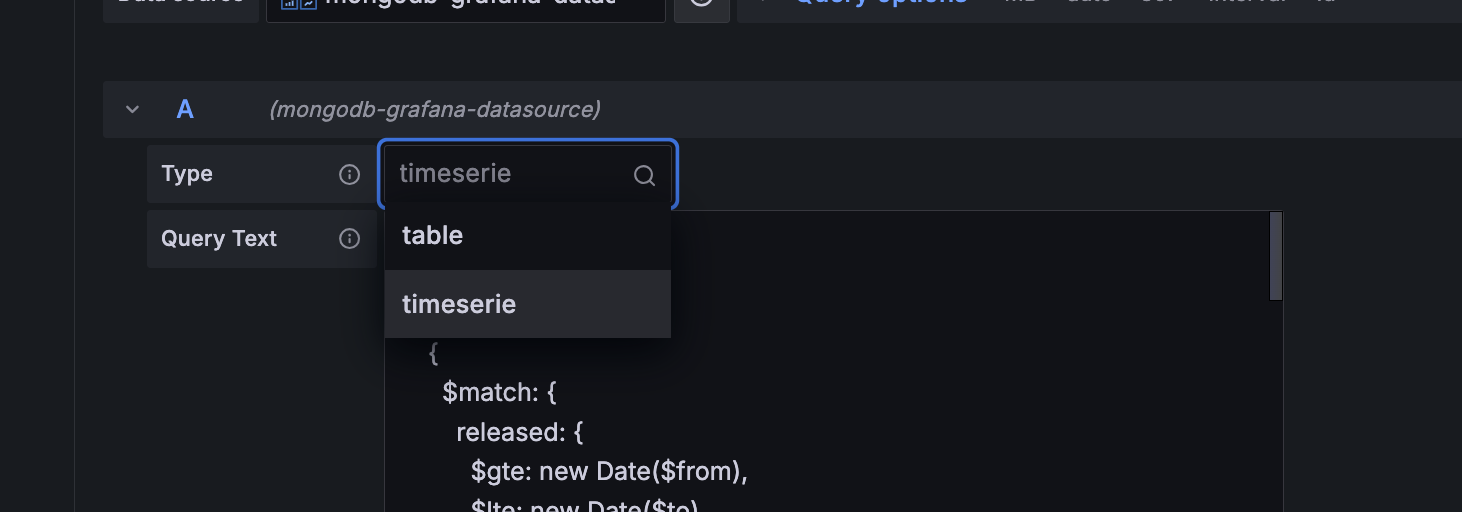
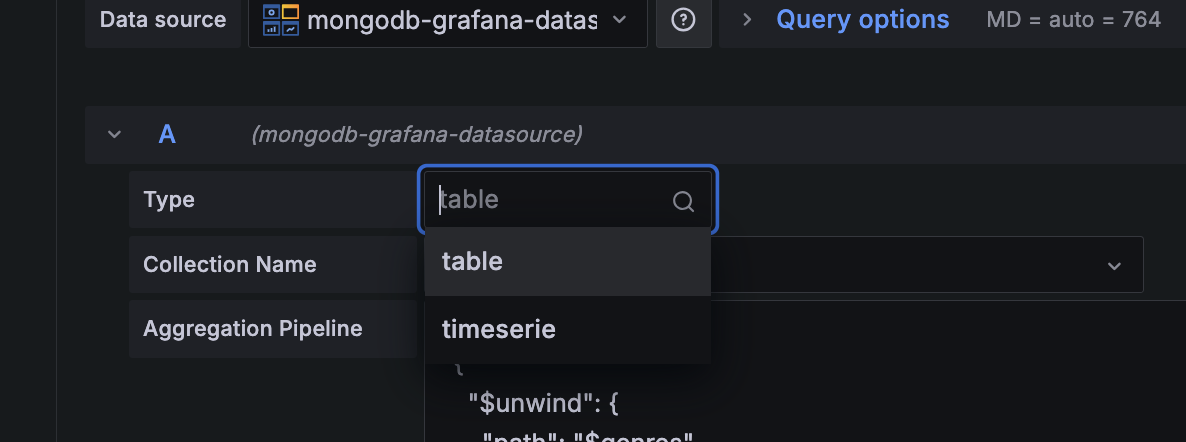
better query editor

diff --git a/frontend/src/components/QueryEditor.tsx b/frontend/src/components/QueryEditor.tsx
@@ -16,9 +16,7 @@ import { lastValueFrom } from 'rxjs';
 
 type Props = QueryEditorProps<DataSource, MyQuery, MyDataSourceOptions>;
 
-const queryHint = `{
-  collection: "collection name",
-  aggregations: [
+const queryHint = `[
     {
       string: "string",
       date: new Date(),
@@ -28,9 +26,11 @@ const queryHint = `{
       expandable1: $from,
       expandable2: $to,
       expandable3: $intervalMs
-    },
-  ],
-}`;
+    }
+    {
+      ...more stages
+    }
+  ]`;
 
 export function QueryEditor(props: Props) {
   const {
@@ -56,19 +56,24 @@ export function QueryEditor(props: Props) {
             },
             data: JSON.stringify(db),
           });
-          const collections = await lastValueFrom(response);
-          setCollections(collections.data);
+          const values = await lastValueFrom(response);
+          const collections = values.data;
+          if (collections.length > 0) {
+            onChange({ ...query, collection: collections[0] });
+          }
+          setCollections(collections);
           setSpinner(false);
         } catch (err: any) {
           setErrorMsg(err?.message ?? err);
         }
       })();
     }
+    // eslint-disable-next-line
   }, [db, baseUrl]);
 
   const queryUI = (
     <Stack gap={0} direction="column">
-      <InlineField label="Type" labelWidth={16} tooltip="Not used yet">
+      <InlineField label="Type" labelWidth={20}>
         <Select
           width={20}
           options={[
@@ -79,7 +84,7 @@ export function QueryEditor(props: Props) {
           onChange={(sv) => onChange({ ...query, queryType: sv.value!! })}
         />
       </InlineField>
-      <InlineField label="Type" labelWidth={16} tooltip="Not used yet">
+      <InlineField label="Collection Name" labelWidth={20}>
         <Select
           width={50}
           options={collections.map((collection) => ({
@@ -90,7 +95,7 @@ export function QueryEditor(props: Props) {
           onChange={(sv) => onChange({ ...query, collection: sv.value!! })}
         />
       </InlineField>
-      <InlineField label="Query Text" labelWidth={16} tooltip="Not used yet">
+      <InlineField label="Aggregation Pipeline" labelWidth={20}>
         <TextArea
           style={{ width: 500, minHeight: 200 }}
           value={queryText ?? ''}

diff --git a/frontend/src/datasource.ts b/frontend/src/datasource.ts
@@ -50,10 +50,14 @@ export class DataSource extends DataSourceApi<MyQuery, MyDataSourceOptions> {
 
   async query(options: DataQueryRequest<MyQuery>): Promise<DataQueryResponse> {
     try {
+      const { targets } = options;
       const payload = {
         ...options,
+        targets: targets.map((target) => ({
+          ...target,
+          queryText: `{collection: "${target.collection}", aggregations: ${target.queryText}}`,
+        })),
         db: { ...this.db },
-        targets: options.targets.filter((target) => !!target.queryType),
       };
       const response = (await this.request('/query', payload)) as FetchResponse<
         TimeSeriesResponse[] | TableResponse[]

diff --git a/README.md b/README.md
@@ -26,20 +26,15 @@ there are two types of query the plugin supports, `table` or `timeserie`.
 <img src="./imgs/query-type.png" alt="frontend" style="width: 40%;" />
 
 ### query schema
+
+after the frontend collects a query, it sends data of the following schema to its backend
 ```javascript
   {
     collection: "collection name",
     aggregations: [
       {
-        string: "string",
-        date: new Date(),
-        id: new ObjectId("573a1393f29313caabcdc50e"),
-        bool: true,
-        number: 12345.4,
-        expandable1: $from,
-        expandable2: $to,
-        expandable3: $intervalMs
-      },
+        pipeline stage (s)
+      }
     ],
   }
 ```
@@ -48,11 +43,22 @@ there are two types of query the plugin supports, `table` or `timeserie`.
 
 a query is a `javascript` object.
 
-the `collection` field specifies the name of the collection to perform an aggregation.
+the `Collection Name` field specifies the name of the collection to perform an aggregation.
 
-the `aggregations` field can have multiple aggregation steps. the supported data types are listed above.
+the `Aggregation Pipeline` field can have multiple aggregation steps. if you're familiar with `MongoDB Compass`, you can contruct your aggregations in the tool, then copy/paste the aggregration's `Node.js` export to the field - it's just simple as that. the supported data types are listed below.
 
-`timeserie` in detail
+```
+  string: "string",
+  date: new Date(),
+  id: new ObjectId("573a1393f29313caabcdc50e"),
+  bool: true,
+  number: 12345.4,
+  expandable1: $from,
+  expandable2: $to,
+  expandable3: $intervalMs
+```
+
+### `timeserie` in detail
 
 - `$from`, `$to`, `$intervalMs` are grafana expandable variables for using as a time boundary and an interval
 - `__name`, `__value`, `__timestamp` are the plugin's internal variables to construct a named grafana timeserie data frame
